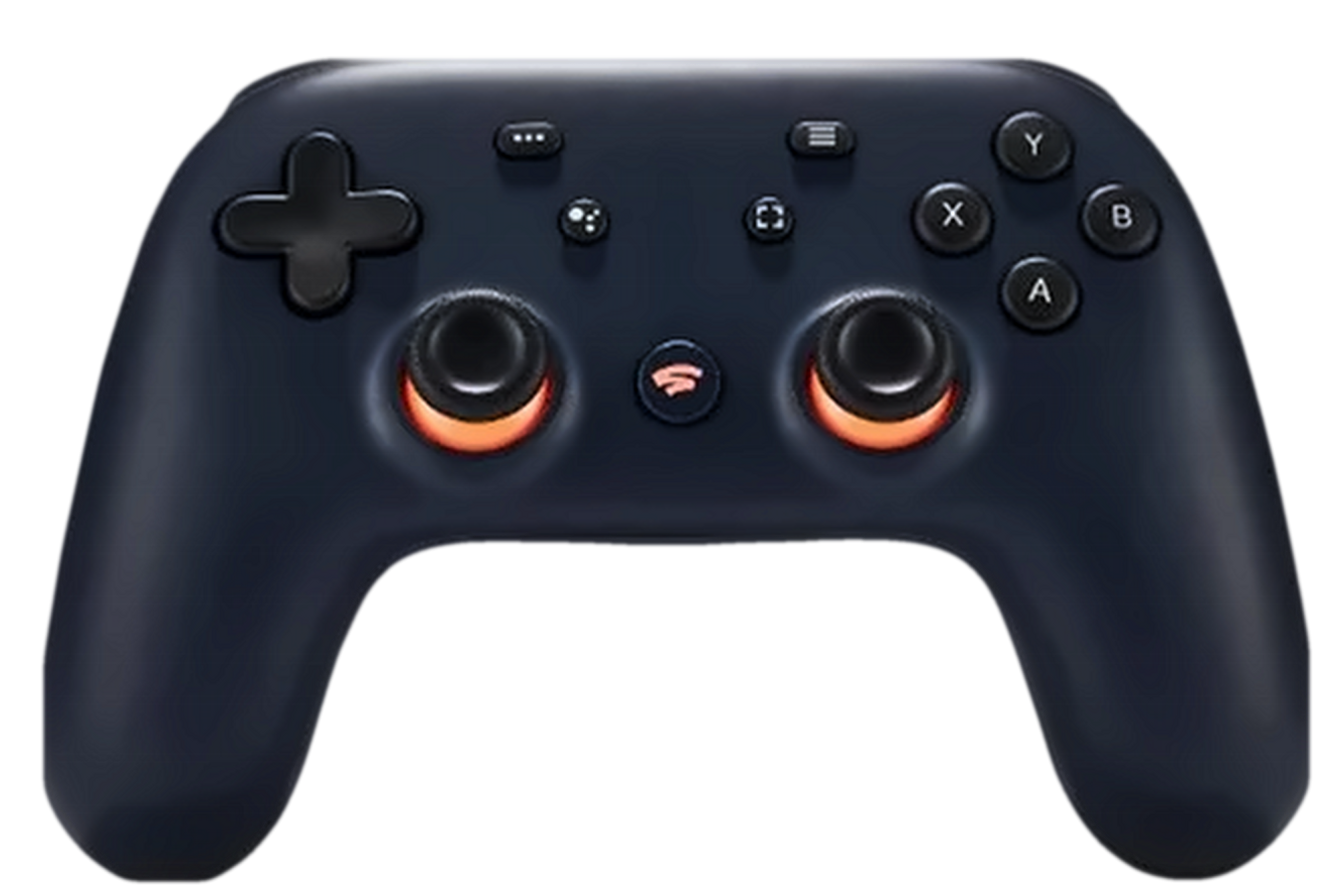
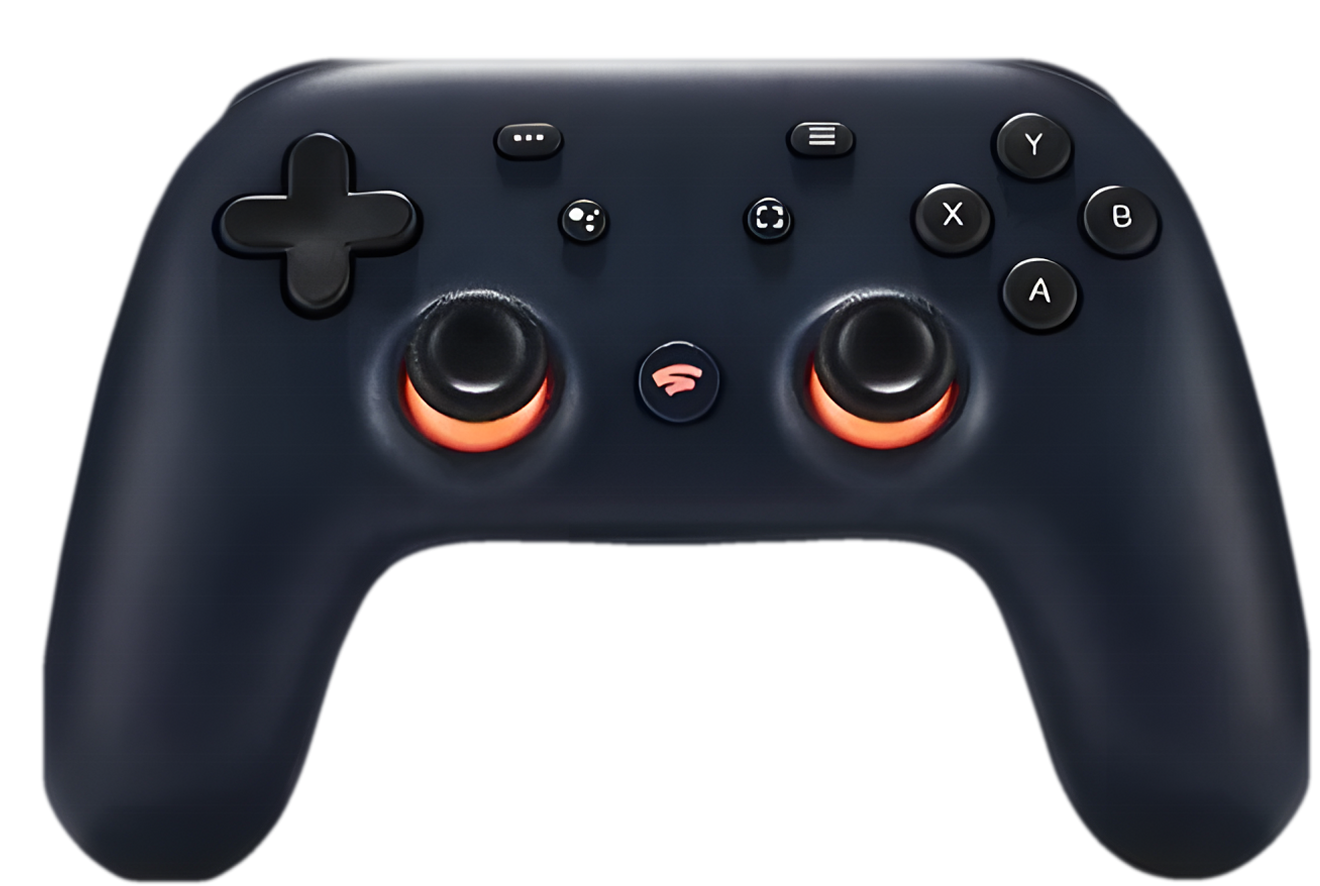
feat(ui): Real-ESRGAN detail for the pad photos
The originals are small JPEG/WebP shots (480-640 px), so the Lanczos
upscale could only smooth them. art/pads/upscaled/ now holds 4x versions
made once with realesrgan-ncnn-vulkan (realesrgan-x4plus), and
make_pad_images.py takes the pad's colour and detail from them: crisp
button lettering and rims, no JPEG block grid.

The outline is still found on the denoised Lanczos image. ESRGAN flattens
Clearly White's surface to the backdrop's white, and the flood fill
leaked into the pad. The outline, crop and button positions are unchanged
(content shift < 0.1 px), so pad-points.js is untouched.

diff --git a/scripts/make_pad_images.py b/scripts/make_pad_images.py
@@ -71,7 +71,29 @@ def measure_box(im: Image.Image):
     fg = fg.filter(ImageFilter.MinFilter(5)).filter(ImageFilter.GaussianBlur(0.9))
     return fg.point(lambda v: 255 if v > 24 else 0).getbbox()
 
-def cut_out(im: Image.Image) -> Image.Image:
+UPSCALED = SRC / "upscaled"   # Real-ESRGAN x4plus 4x versions of the originals (see load_big)
+
+def load_big(im: Image.Image, name: str):
+    """The source at SUPER x resolution, as (for_mask, for_colour).
+
+    for_mask is a light denoise + Lanczos upscale: its white backdrop and the pad's own light surface
+    stay far enough apart for the flood fill. for_colour is the Real-ESRGAN upscale in
+    art/pads/upscaled/ when it exists (made once with realesrgan-ncnn-vulkan -n realesrgan-x4plus -s 4;
+    it recovers real edge and surface detail), else the same Lanczos image. The ESRGAN image is not used
+    for the mask: it flattens Clearly White's surface to the backdrop's white and the fill leaks in."""
+    rgb = np.array(im.convert("RGB"))
+    h, w = rgb.shape[:2]
+    rgb = cv2.fastNlMeansDenoisingColored(rgb, None, 4, 4, 5, 15)   # remove JPEG blocking, keep detail
+    lanczos = cv2.resize(rgb, (w * SUPER, h * SUPER), interpolation=cv2.INTER_LANCZOS4)
+    up = UPSCALED / (Path(name).stem + ".png")
+    if up.exists():
+        big = np.array(Image.open(up).convert("RGB"))
+        if big.shape[:2] == (h * SUPER, w * SUPER):
+            return lanczos, big
+        print(f"  {up.name}: size {big.shape[1]}x{big.shape[0]} is not {SUPER}x the source; ignoring it")
+    return lanczos, lanczos
+
+def cut_out(im: Image.Image, name: str) -> Image.Image:
     """Cuts a product photo off its white background with a smooth, anti-aliased outline.
 
     The small JPEG/WebP originals have noisy, blocky edges; a per-pixel mask follows that noise and
@@ -79,10 +101,7 @@ def cut_out(im: Image.Image) -> Image.Image:
     scale, smooth the outline as a curve (blur + re-threshold), pull it inside the white fringe, and
     let the later downsample produce the anti-aliased edge. Edge colours are taken from the pad's own
     interior, so no white halo shows on the dark UI."""
-    rgb = np.array(im.convert("RGB"))
-    rgb = cv2.fastNlMeansDenoisingColored(rgb, None, 4, 4, 5, 15)   # remove JPEG blocking, keep detail
-    h, w = rgb.shape[:2]
-    big = cv2.resize(rgb, (w * SUPER, h * SUPER), interpolation=cv2.INTER_LANCZOS4)
+    big, colour = load_big(im, name)
     H, W = big.shape[:2]
     # Background = everything connected to the border that is close to the border's white.
     ff = np.zeros((H + 2, W + 2), np.uint8)
@@ -105,7 +124,7 @@ def cut_out(im: Image.Image) -> Image.Image:
     # would let the pad grow back out to the frame.
     P = 12 * SUPER
     fg = cv2.copyMakeBorder(fg, P, P, P, P, cv2.BORDER_CONSTANT, value=0)
-    big = cv2.copyMakeBorder(big, P, P, P, P, cv2.BORDER_REPLICATE)
+    colour = cv2.copyMakeBorder(colour, P, P, P, P, cv2.BORDER_REPLICATE)
     # Keep only the pad itself (largest blob) and fill pin-holes inside it.
     n, lab, stats, _ = cv2.connectedComponentsWithStats(fg.astype(np.uint8), 8)
     if n > 1:
@@ -124,7 +143,7 @@ def cut_out(im: Image.Image) -> Image.Image:
     # Edge colour: pixels near the outline still mix in the white backdrop; replace them with the
     # average colour of the pad just inside (colour bleed), weighted by how deep inside they are.
     inner = cv2.erode(fg, cv2.getStructuringElement(cv2.MORPH_ELLIPSE, (int(3 * SUPER) | 1,) * 2))
-    f = big.astype(np.float32)
+    f = colour.astype(np.float32)
     acc = cv2.GaussianBlur(f * inner[..., None], (0, 0), 2.5 * SUPER)
     wgt = cv2.GaussianBlur(inner, (0, 0), 2.5 * SUPER)[..., None]
     bleed = acc / np.maximum(wgt, 1e-4)
@@ -207,7 +226,7 @@ POINTS_OUT = {}
 
 def main() -> None:
     OUT.mkdir(parents=True, exist_ok=True)
-    imgs = {name: normalise(cut_out(Image.open(SRC / file))) for name, file in PADS.items()}
+    imgs = {name: normalise(cut_out(Image.open(SRC / file), file)) for name, file in PADS.items()}
     size = imgs[REFERENCE].size
     heights = {}
     for name, img in imgs.items():
